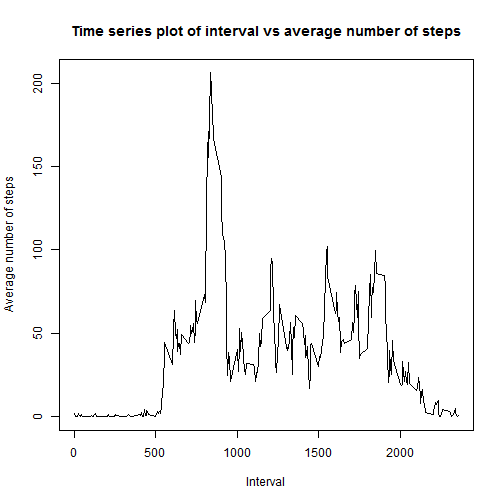
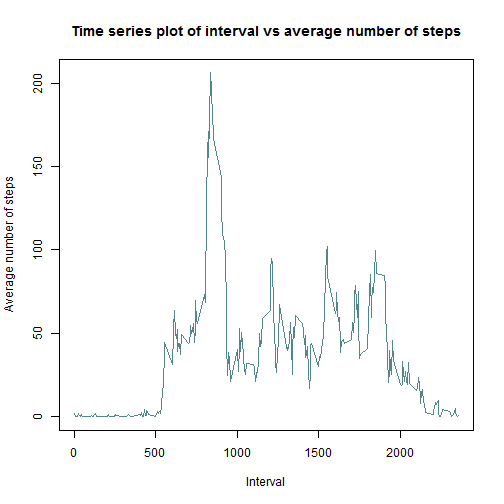
Changing the style of the plots

diff --git a/PA1_template.html b/PA1_template.html
@@ -207,10 +207,10 @@ activity.data &lt;- read.csv(&quot;activity.csv&quot;,
 
 <pre><code class="r">sumSteps &lt;- tapply(procData$steps, procData$date, sum)
 hist(sumSteps, main=&quot;Histogram of total number of steps taken each day&quot;, 
-     xlab=&quot;Number of steps&quot;)
+     xlab=&quot;Number of steps&quot;, col=&quot;#528B8B&quot;)
 </code></pre>
 
[2 lines of base64/hex data omitted]
 
 <p>Then we calculate the mean and median of the total number of steps taken each day:</p>
 
@@ -234,10 +234,10 @@ hist(sumSteps, main=&quot;Histogram of total number of steps taken each day&quot
 colnames(avgSteps) &lt;- c(&quot;Interval&quot;, &quot;AvgSteps&quot;)
 plot(avgSteps$Interval, avgSteps$AvgSteps, type=&quot;l&quot;, 
      main=&quot;Time series plot of interval vs average number of steps&quot;, 
-     xlab=&quot;Interval&quot;, ylab=&quot;Average number of steps&quot;)
+     xlab=&quot;Interval&quot;, ylab=&quot;Average number of steps&quot;, col=&quot;#53868B&quot;)
 </code></pre>
 
[2 lines of base64/hex data omitted]
 
 <p>Then we find which interval, on average, contains the maximum number of steps:</p>
 
@@ -246,6 +246,8 @@ plot(avgSteps$Interval, avgSteps$AvgSteps, type=&quot;l&quot;,
 
 <pre><code>## [1] 835
 </code></pre>
+
+<p>Therefore, the interval that contains the maximum number of steps is: 835.</p>
 
 <h2>Imputing missing values</h2>
 
@@ -274,10 +276,10 @@ plot(avgSteps$Interval, avgSteps$AvgSteps, type=&quot;l&quot;,
 
 <pre><code class="r">sumSteps &lt;- tapply(activity.data$steps, activity.data$date, sum)
 hist(sumSteps, main=&quot;Histogram of total number of steps taken each day&quot;, 
-     xlab=&quot;Number of steps&quot;)
+     xlab=&quot;Number of steps&quot;, col=&quot;#528B8B&quot;)
 </code></pre>
 
[2 lines of base64/hex data omitted]
 
 <p>Then we calculate the mean and median of the total number of steps taken each day in the new and updated dataset:</p>
 
@@ -333,13 +335,15 @@ colnames(weekends.avgSteps) &lt;- c(&quot;Interval&quot;, &quot;AvgSteps&quot;)
 
 par(mfrow = c(2, 1))
 plot(weekdays.avgSteps$Interval, weekdays.avgSteps$AvgSteps, type=&quot;l&quot;, 
-     main=&quot;Weekdays&quot;, xlab=&quot;Interval&quot;, ylab=&quot;Average number of steps&quot;)
+     main=&quot;Weekdays&quot;, xlab=&quot;Interval&quot;, 
+     ylab=&quot;Average number of steps&quot;, col=&quot;#53868B&quot;)
 
 plot(weekends.avgSteps$Interval, weekends.avgSteps$AvgSteps, type=&quot;l&quot;, 
-     main=&quot;Weekends&quot;, xlab=&quot;Interval&quot;, ylab=&quot;Average number of steps&quot;)
+     main=&quot;Weekends&quot;, xlab=&quot;Interval&quot;, 
+     ylab=&quot;Average number of steps&quot;, col=&quot;#53868B&quot;)
 </code></pre>
 
[2 lines of base64/hex data omitted]
 
 <p>It appears from a preliminary reading of the plots that weekends show a more varied pattern of activity compared to weekdays. </p>
 

diff --git a/PA1_template.md b/PA1_template.md
@@ -32,7 +32,7 @@ First, we generate a histogram that shows the total number of steps taken each d
 ```r
 sumSteps <- tapply(procData$steps, procData$date, sum)
 hist(sumSteps, main="Histogram of total number of steps taken each day", 
-     xlab="Number of steps")
+     xlab="Number of steps", col="#528B8B")
 ```
 
 ![plot of chunk Histogram1](figure/Histogram1.png) 
@@ -66,7 +66,7 @@ avgSteps <- aggregate(procData$steps, list(procData$interval), mean)
 colnames(avgSteps) <- c("Interval", "AvgSteps")
 plot(avgSteps$Interval, avgSteps$AvgSteps, type="l", 
      main="Time series plot of interval vs average number of steps", 
-     xlab="Interval", ylab="Average number of steps")
+     xlab="Interval", ylab="Average number of steps", col="#53868B")
 ```
 
 ![plot of chunk Interval_TimeSeries1](figure/Interval_TimeSeries1.png) 
@@ -81,6 +81,8 @@ avgSteps[avgSteps$AvgSteps == max(avgSteps$AvgSteps), 1]
 ```
 ## [1] 835
 ```
+
+Therefore, the interval that contains the maximum number of steps is: 835.
 
 ## Imputing missing values
 
@@ -116,7 +118,7 @@ Then, we generate a histogram that shows the total number of steps taken each da
 ```r
 sumSteps <- tapply(activity.data$steps, activity.data$date, sum)
 hist(sumSteps, main="Histogram of total number of steps taken each day", 
-     xlab="Number of steps")
+     xlab="Number of steps", col="#528B8B")
 ```
 
 ![plot of chunk Histogram2](figure/Histogram2.png) 
@@ -186,10 +188,12 @@ colnames(weekends.avgSteps) <- c("Interval", "AvgSteps")
 
 par(mfrow = c(2, 1))
 plot(weekdays.avgSteps$Interval, weekdays.avgSteps$AvgSteps, type="l", 
-     main="Weekdays", xlab="Interval", ylab="Average number of steps")
+     main="Weekdays", xlab="Interval", 
+     ylab="Average number of steps", col="#53868B")
 
 plot(weekends.avgSteps$Interval, weekends.avgSteps$AvgSteps, type="l", 
-     main="Weekends", xlab="Interval", ylab="Average number of steps")
+     main="Weekends", xlab="Interval", 
+     ylab="Average number of steps", col="#53868B")
 ```
 
 ![plot of chunk Interval_TimeSeries_Panel](figure/Interval_TimeSeries_Panel.png) 
